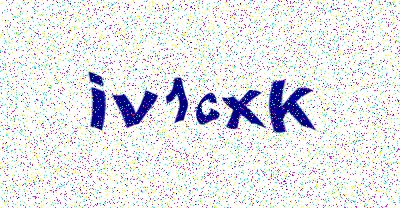
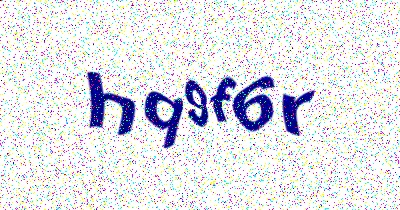
asdasfas

diff --git a/solver.rb b/solver.rb
@@ -1,0 +1,55 @@
+require 'rtesseract'
+require 'RMagick'
+
+# Transform and solve captchas
+class Solver
+  def initialize(args = {})
+    @solved_path = 'captcha_solved.jpg'
+    @psm = args[:psm]
+    @options = args[:options]
+    @lang = args[:lang]
+  end
+
+  def solve(image_path)
+    # read image from disk
+    img = Magick::Image.read(image_path).first
+    # process image to reduce noise and improve text quality
+    img = process_image(img)
+    # enhance the image to improve ocr accuracy
+    img = enhance(img)
+    # save the image in disk
+    img.write(@solved_path)
+    # extract result
+    extract_characters
+  end
+
+  def process_image(img)
+    # to improve OCR quality, let's crop the image
+    # args X, Y, width, height
+    img.crop!(50, 60, 300, 80)
+
+    # transform image into gray scale colors
+    img = img.quantize(128, Magick::GRAYColorspace)
+
+    # convert into white everything below the threshold
+    img = img.white_threshold(140 * 256)
+
+    # transform image into binary colors
+    img = img.quantize(2, Magick::GRAYColorspace)
+
+    # Add border to avoid noise there
+    img.border!(5, 5, 'white')
+  end
+
+  def enhance(img)
+    img
+  end
+
+  def extract_characters
+    text = RTesseract.new(@solved_path,
+                          lang: @lang,
+                          options: @options,
+                          psm: @psm)
+    text.to_s_without_spaces
+  end
+end

diff --git a/test.rb b/test.rb
@@ -6,16 +6,41 @@ require_relative 'solver'
 class Test
   def self.run
     # Create a random text
-    text = Faker::Lorem.characters(6)
-    puts "Text to create #{text}"
+    text = random_text
 
     # Create an image
-    image = Captcha.generate text, 400, 200, 80
     path = 'captcha.jpg'
+    create_image path, text
+
+    # solving captcha
+    solve path
+  end
+
+  def self.random_text
+    text = Faker::Lorem.characters(6)
+    puts "Text to create '#{text}'"
+    text
+  end
+
+  def self.create_image(path, text)
+    image = Captcha.generate text, 400, 200, 80
     File.open(path, 'wb') { |f| f.write(image) }
+  end
+
+  def self.solve(path)
+    # instance a solver class
+    args = {
+      psm: 7, # this is how ocr will work https://github.com/tesseract-ocr/tesseract/wiki/Command-Line-Usage
+      options: :alphanum, # check other options https://github.com/dannnylo/rtesseract
+      lang: :eng # languate option, we will set eng as default
+    }
+    solver = Solver.new args
 
     # Send image's path to solver and wait for result
-    result = Solver.solve path
+    puts 'Solving captcha'
+    result = solver.solve path
     puts "result: #{result}"
   end
 end
+
+Test.run

diff --git a/readme.md b/readme.md
@@ -1,0 +1,2 @@
+config:
+  tessedit_char_whitelist abcdefghijklmnñopqrstuvwxyz1234567890
